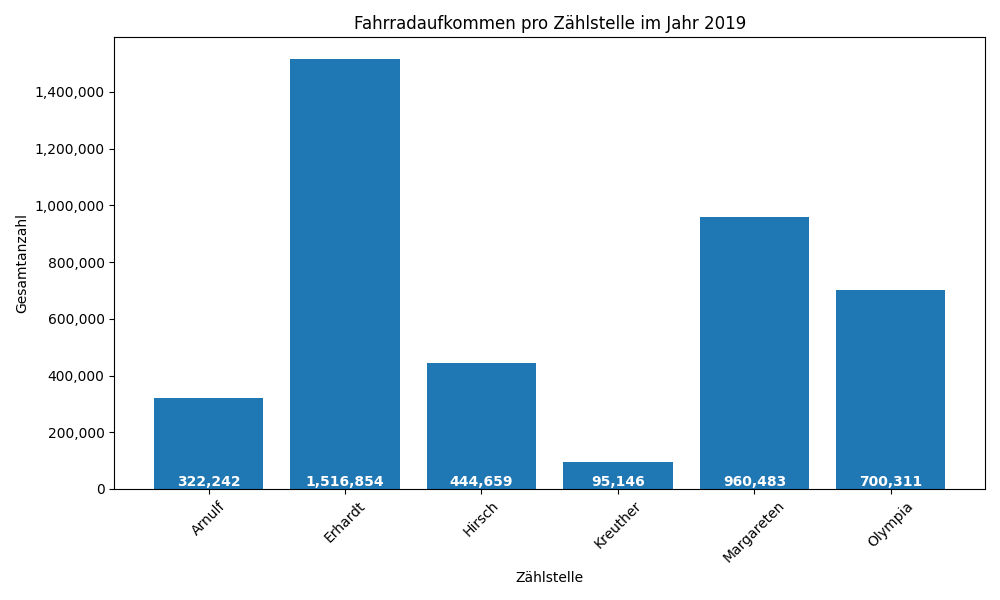
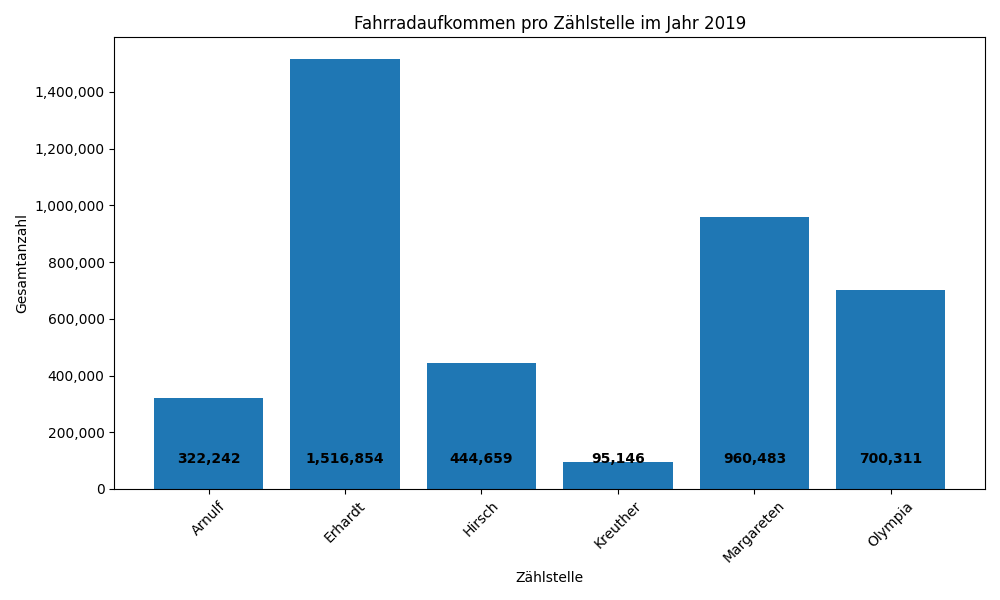
fix for 3-1 and 3-2

diff --git a/exec_3-1.py b/exec_3-1.py
@@ -47,17 +47,23 @@ for year in yearly_data["jahr"].unique():
     plt.ylabel("Gesamtanzahl")
     plt.gca().yaxis.set_major_formatter(StrMethodFormatter('{x:,.0f}'))
 
+    # Berechne den unteren Rand der y-Achse
+    ylim_bottom, ylim_top = plt.gca().get_ylim()
+
+    # Feste Y-Position für die Zahlen in den Balken
+    fixed_y_position = ylim_bottom + (ylim_top - ylim_bottom) * 0.05  # 5% vom unteren Rand der y-Achse
+
     # Werte unten im Balken anzeigen
     for bar in bars:
         height = bar.get_height()
         plt.text(
             bar.get_x() + bar.get_width() / 2,  # X-Position
-            5,                                 # Fester Y-Wert (knapp über der Balkenbasis)
+            fixed_y_position,                                 # Fester Y-Wert (knapp über der Balkenbasis)
             f'{int(height):,}',               # Formatierte Zahl
-            ha='center', va='bottom', color='white', fontsize=10, fontweight="bold"
+            ha='center', va='bottom', color='black', fontsize=10, fontweight="bold"
         )
 
     plt.xticks(rotation=45)
     plt.tight_layout()
     plt.savefig(f"./eval_3-1/fahrradaufkommen_{year}.png")  # Optional: Speichere die Grafik
-    plt.show()
+    plt.close()

diff --git a/exec_3-2.py b/exec_3-2.py
@@ -68,9 +68,9 @@ for year in quarterly_data["jahr"].unique():
             bar.get_x() + bar.get_width() / 2,  # X-Position
             fixed_y_position,
             f'{int(height):,}',  # Formatierte Zahl
-            ha='center', va='bottom', color='white', fontsize=10, fontweight="bold"
+            ha='center', va='bottom', color='black', fontsize=10, fontweight="bold"
         )
 
     plt.tight_layout()
     plt.savefig(f"./eval_3-2/quartal{year}.png")  # Optional: Speichere die Grafik
-    plt.show()
+    plt.close()
